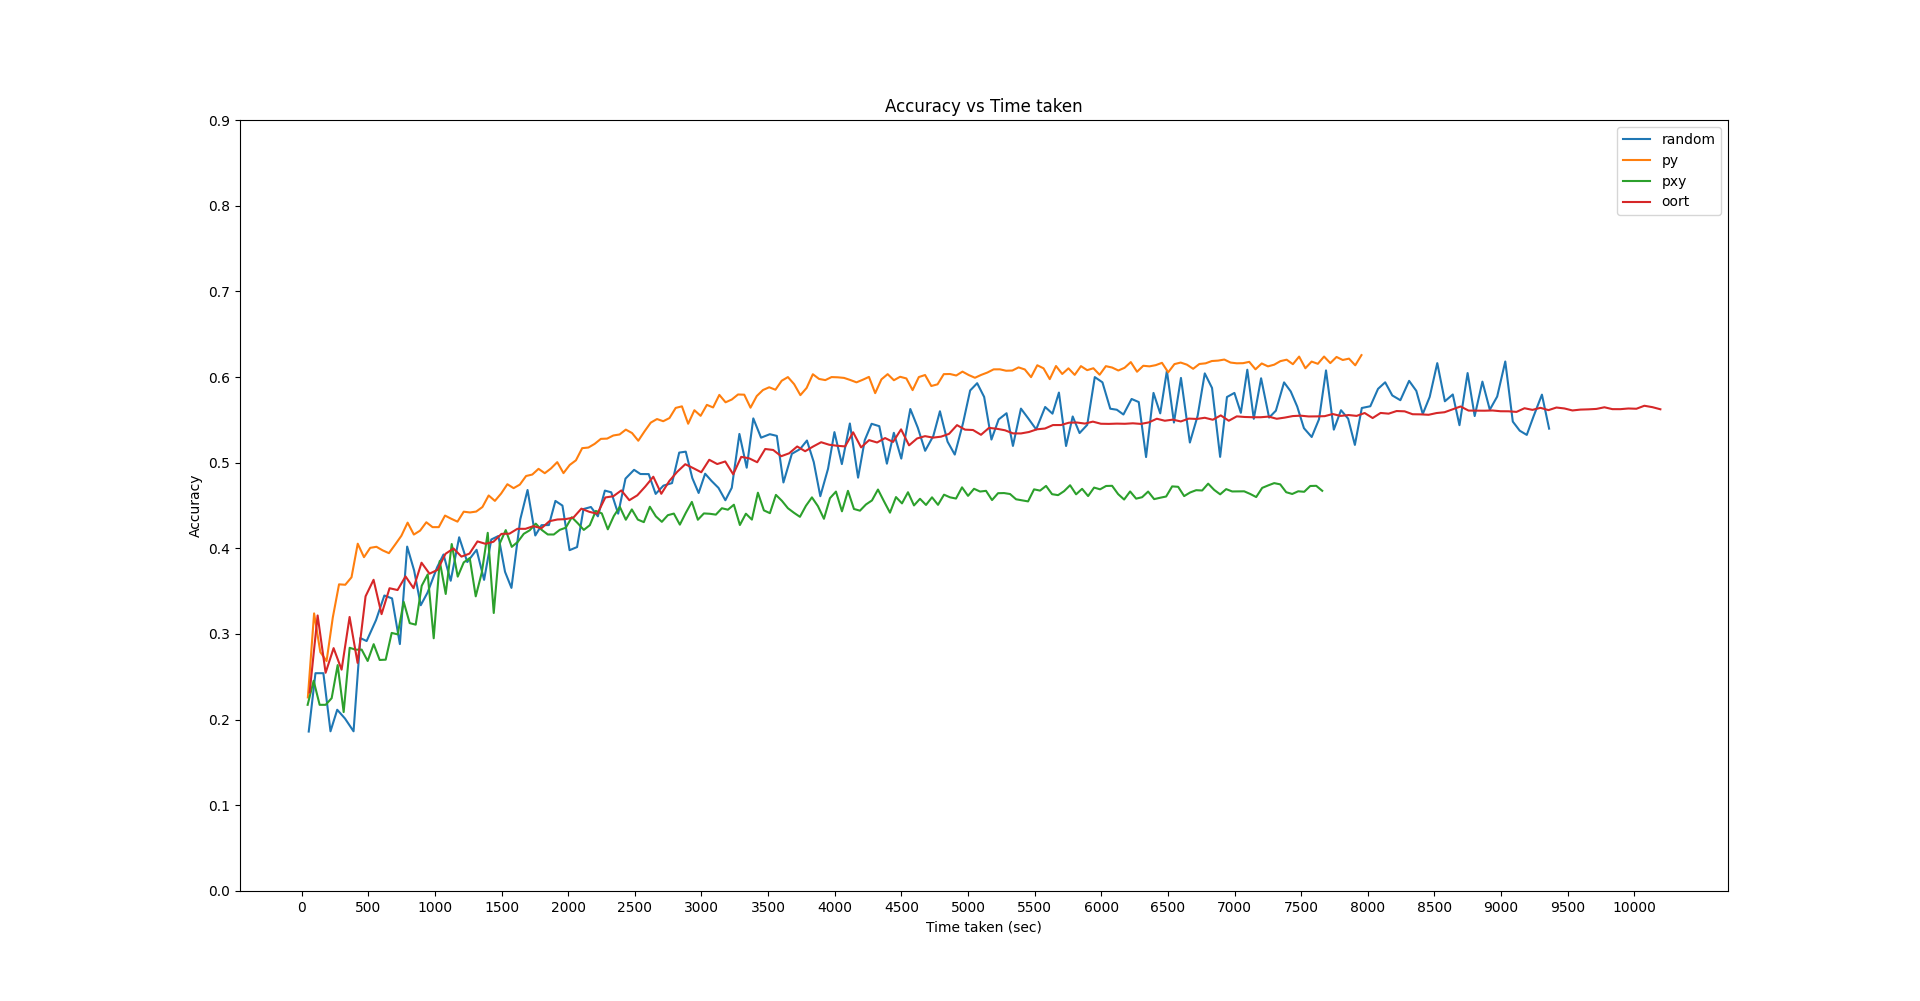
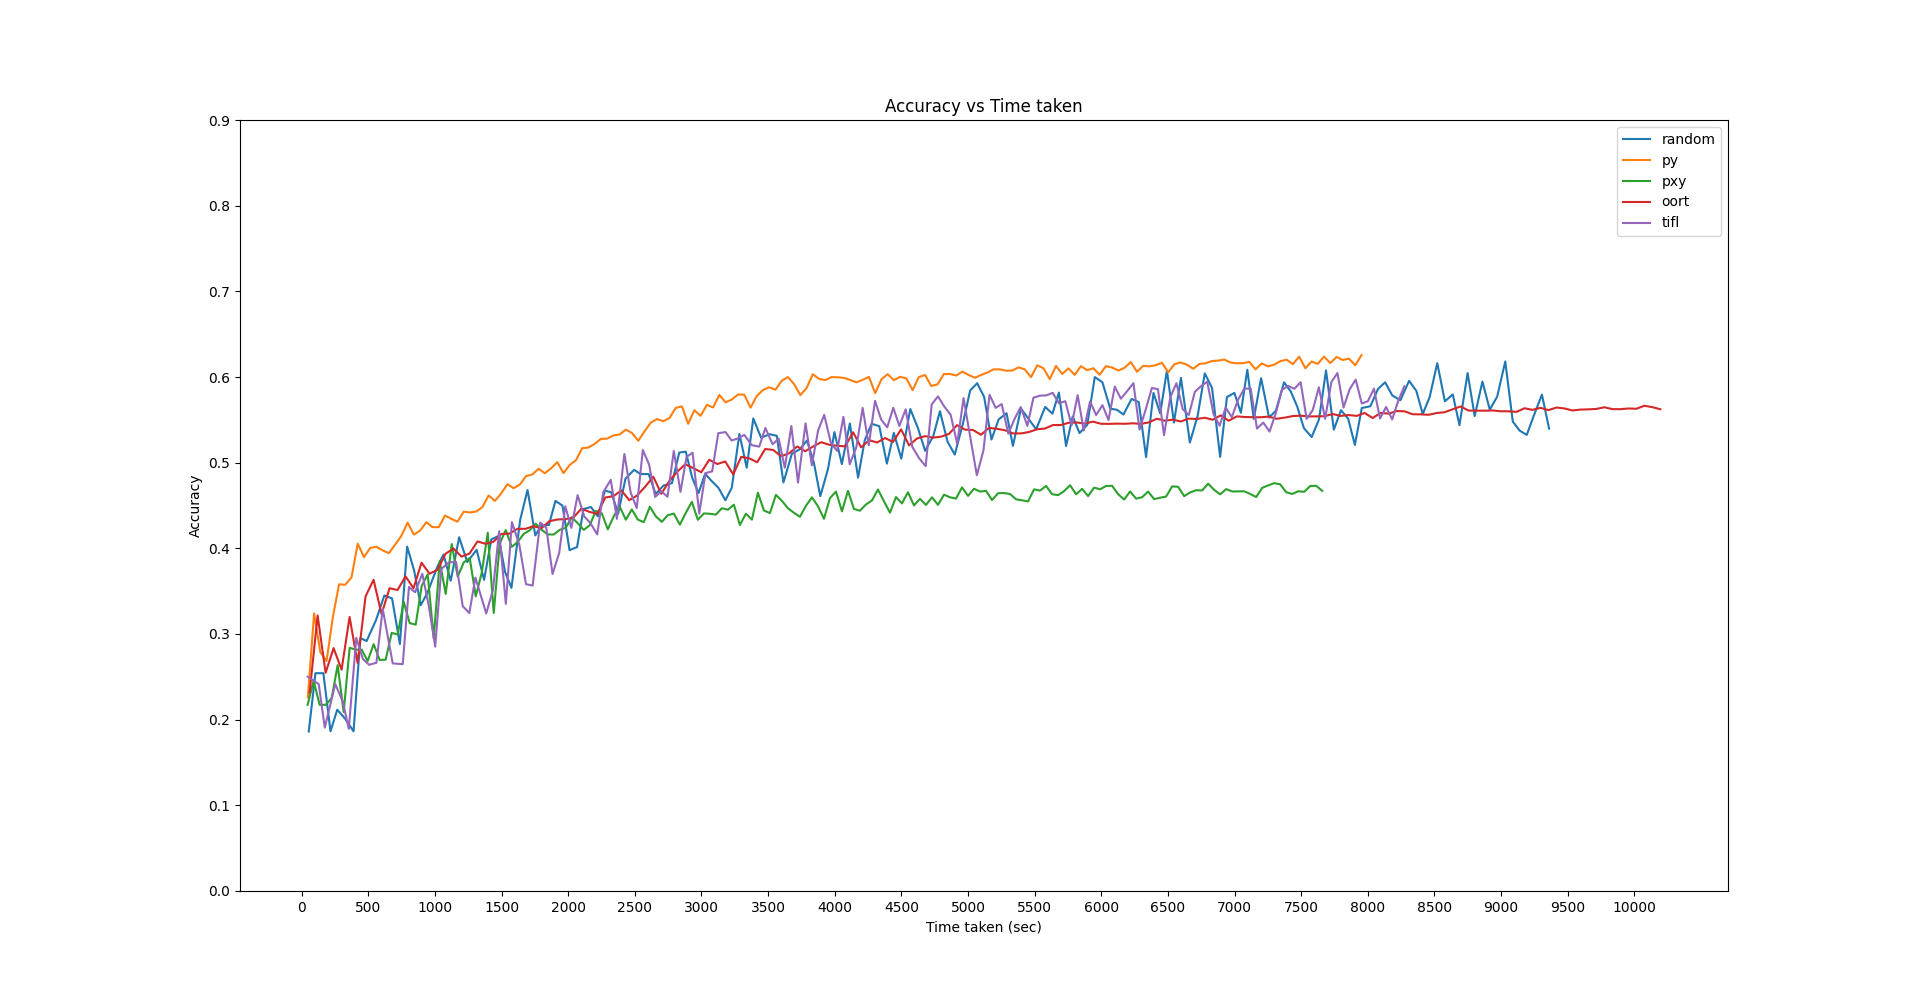
cifar10 combined graph

diff --git a/logs/logParser.py b/logs/logParser.py
@@ -5,11 +5,13 @@ rndfh = open("cifar10_rnd.log")
 pyfh = open("cifar10_py.log")
 pxyfh = open("cifar10_pxy.log")
 oortfh = open("cifar10_oort.log")
+tiflfh = open("cifar10_tifl.log")
 
 rndcontent = rndfh.readlines()
 pycontent = pyfh.readlines()
 pxycontent = pxyfh.readlines()
 oortcontent = oortfh.readlines()
+tiflcontent = tiflfh.readlines()
 
 lineIdx = 0
 nLines = 170
@@ -29,6 +31,10 @@ pxytimes = []
 oortepoch = []
 oortaccuracy = []
 oorttimes = []
+
+tiflepoch = []
+tiflaccuracy = []
+tifltimes = []
 while (lineIdx < nLines):
     currLine = rndcontent[lineIdx]
     splitLine = currLine.split()
@@ -54,16 +60,23 @@ while (lineIdx < nLines):
     oortaccuracy.append(float(splitLine[3]))
     oorttimes.append(float(splitLine[17]))
 
+    currLine = tiflcontent[lineIdx]
+    splitLine = currLine.split()
+    tiflepoch.append(float(splitLine[1]))
+    tiflaccuracy.append(float(splitLine[3]))
+    tifltimes.append(float(splitLine[17]))
+
     lineIdx += 1
 
 rndctime = np.cumsum(rndtimes)
 pyctime = np.cumsum(pytimes)
 pxyctime = np.cumsum(pxytimes)
 oortctime = np.cumsum(oorttimes) 
-maxtime = max(max(rndctime), max(pyctime), max(pxyctime), max(oortctime))
+tiflctime = np.cumsum(tifltimes) 
+maxtime = max(max(rndctime), max(pyctime), max(pxyctime), max(oortctime), max(tiflctime))
 # maxtime = max(max(rndctime), max(pyctime), max(pxyctime))
 
-print(max(rndctime), max(pyctime), max(pxyctime), max(oortctime))
+print(max(rndctime), max(pyctime), max(pxyctime), max(oortctime), max(tiflctime))
 # print(max(rndctime), max(pyctime), max(pxyctime))
 
 x_ticks = np.arange(0, 180, 10)
@@ -72,6 +85,7 @@ plt.plot(rndepoch, rndaccuracy, label='random')
 plt.plot(rndepoch, pyaccuracy, label = 'py')
 plt.plot(rndepoch, pxyaccuracy, label ='pxy')
 plt.plot(rndepoch, oortaccuracy, label = 'oort')
+plt.plot(rndepoch, tiflaccuracy, label = 'tifl')
 plt.xticks(x_ticks)
 plt.xlabel('Epochs')
 plt.yticks(y_ticks)
@@ -86,6 +100,7 @@ plt.plot(rndctime, rndaccuracy, label = 'random')
 plt.plot(pyctime, pyaccuracy, label = 'py')
 plt.plot(pxyctime, pxyaccuracy, label = 'pxy')
 plt.plot(oortctime, oortaccuracy, label = 'oort')
+plt.plot(tiflctime, tiflaccuracy, label = 'tifl')
 plt.xticks(x_ticks)
 plt.xlabel('Time taken (sec)')
 plt.yticks(y_ticks)
